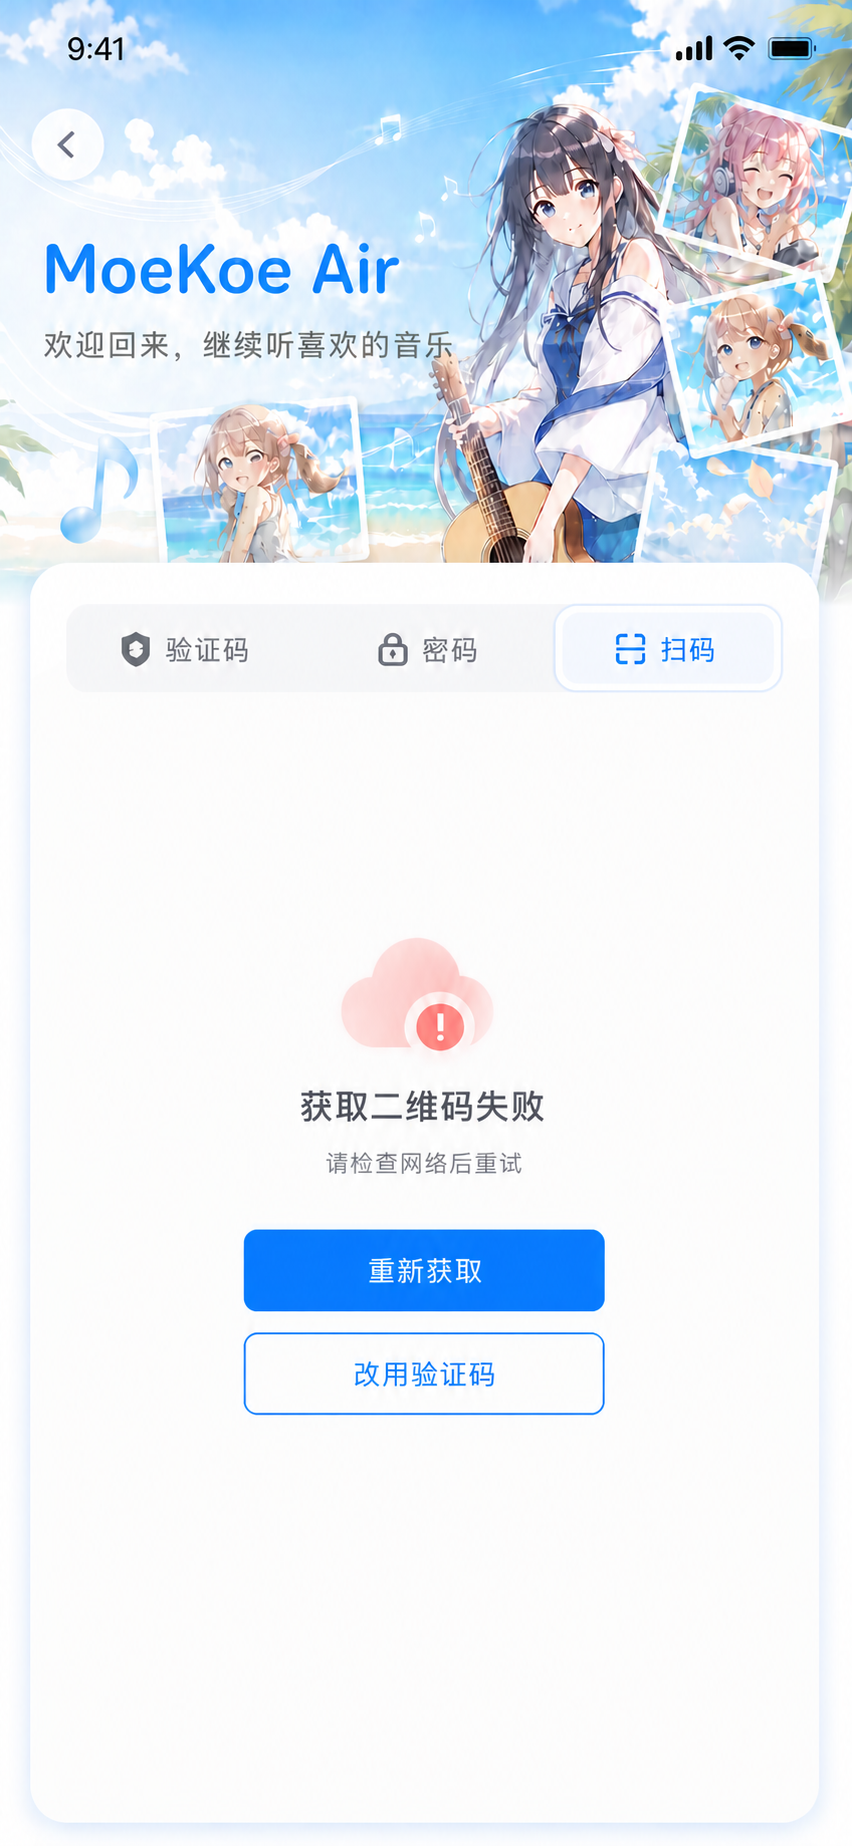
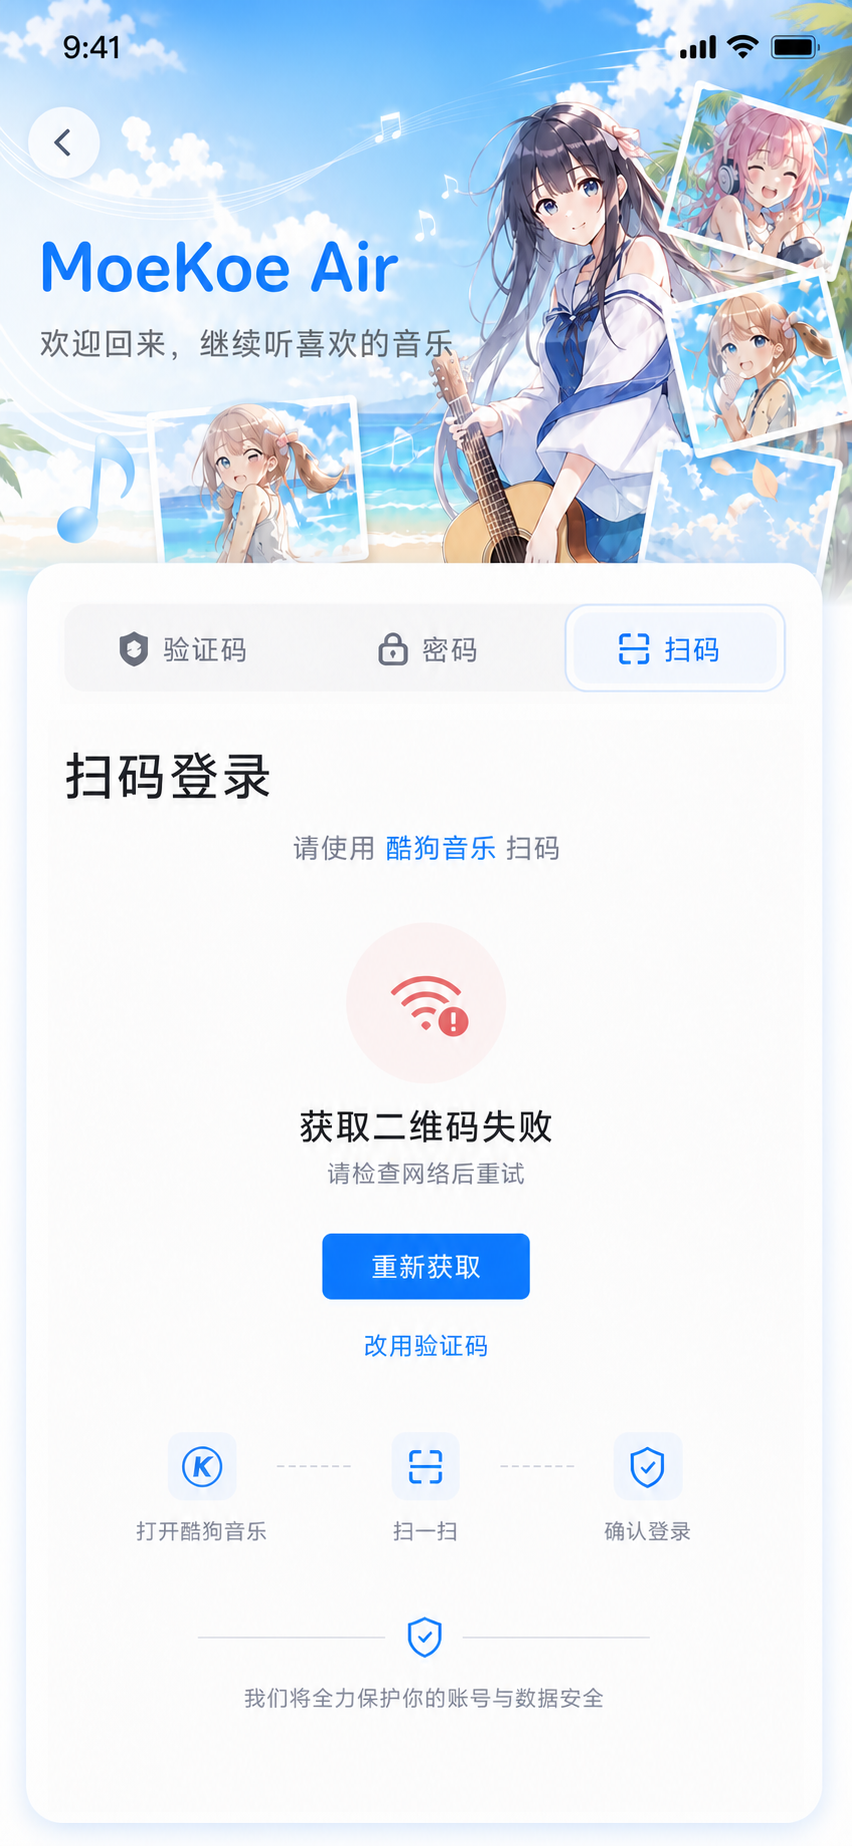
fix(design): rebuild login candidates from approved bases

diff --git a/docs/UI_COMPONENTS.md b/docs/UI_COMPONENTS.md
@@ -22,6 +22,13 @@
 
 同一时间只允许一个模态覆盖层。页面内状态、Snackbar、MiniPlayer 和底部导航可以按固定层级共存，但 Snackbar 不得覆盖 MiniPlayer。
 
+### 覆盖层设计图合成门禁
+
+- Dialog 与 Bottom Sheet 状态图必须以对应的原页面设计图为底图，按“原页面 → 统一遮罩 → 独立覆盖层”的顺序确定性合成；禁止使用生图模型重新生成或近似复刻遮罩后的页面。
+- 遮罩只能改变底图的整体明度与可交互语义。底层文字、图标、输入值、按钮标签、组件尺寸和坐标必须与原页面逐像素保持一致，不得因覆盖层出现错位、变形或文案漂移。
+- 覆盖层自身可以独立设计或生成，但必须先去除其临时背景，再作为前景层放回完整手机画布；每个状态保持一张独立原分辨率设计图，不用横向拼图承载多个状态。
+- 评审覆盖层时同时核对底图一致性、遮罩透明度、前景层位置与组件 Token；任一项不一致都不能通过设计确认门禁。
+
 ## Bottom Sheet
 
 - 手机端 Bottom Sheet 必须附着在当前视口底部，占满可用宽度，只在顶部使用 `28.dp` 圆角。
@@ -41,10 +48,10 @@
 
 ### 通用尺寸与外观
 
-- 手机端宽度为 `min(320.dp, windowWidth - 48.dp)`；大字体下允许内容增高，不固定高度。
+- 手机端普通确认型默认宽度为 `min(264.dp, windowWidth - 64.dp)`；六位验证码等结构化输入型允许使用 `min(288.dp, windowWidth - 64.dp)`。这两个规格由 390dp 登录画布校准，位于旧候选小弹窗与 `18-mobile-states-overlays.png` 大示例之间，不再把示例的约 `320.dp` 宽度机械套用到登录流程。大字体下允许内容增高，不固定高度；其他内容不能按文案长度任意放大。
 - 默认 Dialog 必须相对完整可用视口水平、垂直居中；不得以页面内容区、底部表单、键盘上方剩余区域或触发控件作为视觉居中基准。只有 Bottom Sheet 可以贴底呈现。
 - 容器使用 `surfaceContainerHigh`，圆角 `28.dp`，遮罩使用约 32% 黑色；不使用玻璃模糊和厚重阴影。
-- 外边距 `24.dp`，内容内边距 `24.dp`，标题与正文间距 `16.dp`，正文与操作区间距 `24.dp`。
+- 最小屏幕边距 `32.dp`，内容内边距 `24.dp`，标题与正文间距 `16.dp`，正文与操作区间距 `24.dp`。
 - 标题采用约 `24sp / 32sp`，正文采用 `14sp / 20sp`，按钮标签不小于 `14sp`。
 - 所有操作区域至少 `48.dp` 高。取消操作在左，主要操作在右；危险操作只将最终确认按钮设为 `error` 语义色。
 - 图标只辅助表达语义，不替代标题和正文。颜色不能成为区分成功、警告和错误的唯一方式。

diff --git a/AGENTS.md b/AGENTS.md
@@ -27,8 +27,10 @@
 - 任何新增或实质改变用户可见页面、组件、导航、覆盖层或交互状态的功能，在原型和 Compose 编码前必须具备对应设计图；只有纯后台能力和不改变布局的小型文案、机械修复可以豁免。
 - 功能规格必须先列出正常、加载、空数据、错误、离线、权限、未登录、账号受限、取消和恢复等适用状态，再逐项链接覆盖它们的设计图；只有主状态、缺少异常或恢复状态不视为设计完整。
 - 缺少设计图时，先使用 `frontend-design` 在现有 MoeKoe Air 视觉、`DESIGN_SYSTEM.md` 和已批准页面约束内补图，不得另起一套色板、字体、信息架构或组件语言。
+- 补充同一页面的新状态时，已确认主状态不是抽象风格参考，而是必须直接复用的页面基座；状态图只能替换规格明确允许变化的内容区域。状态栏、Hero、页面容器、固定导航、通用控件及其尺寸和坐标不得由生图模型重新解释。确需切换到独立 Activity 或其他页面作为基座时，必须在状态映射中明确记录例外及其权威设计图。
 - 固定顺序为“视觉约束审计 → 静态设计图生成 → 用户确认 → 必要时制作交互原型 → 文档与 Design System 同步 → Compose 实现”。设计图未生成或未确认时，不得提前制作原型；候选图、原型和自动生成图也不得自行标记为实现基线。
 - 原型只验证已确认设计的交互、滚动、转场和响应式行为，不能替代静态设计图门禁。设计图中的自动生成文案和标注不作为协议、产品文案或 Token 真值。
+- Dialog、Bottom Sheet 等覆盖层状态必须直接复用对应原页面画布，再依次叠加规范遮罩与独立前景层；不得让生图模型重绘遮罩后的原页面。除覆盖层明确造成的遮挡外，底层页面的文字、控件、输入草稿、尺寸和坐标必须保持不变。
 - 已确认设计图是页面结构、层级、密度和视觉形态的权威依据；原型只作为交互参考。原型中的字符图标、近似图标和临时装饰不得复制到 Compose，正式图标必须按设计图语义使用固定版本的 Material Icons 或已批准品牌资源。
 - 设计确认后必须更新 `docs/design/mockups/README.md`、相关阶段计划和唯一页面映射；实现中发现新状态时，先补设计并重新确认，再继续布局代码。
 

diff --git a/docs/DESIGN_SYSTEM.md b/docs/DESIGN_SYSTEM.md
@@ -173,8 +173,9 @@
 - 加载、空数据、持续错误和离线属于页面内状态。
 - 权限解释优先使用全页面状态；登录与 VIP 限制优先使用内容区内联门槛，只有必须确认时才打开 Dialog。
 - 不可在同一页面中用风险、确认或提示卡片替换用户正在操作的主表单。登录额外风险验证属于临时阻断确认：原密码表单保持可辨识但不可操作，叠加遮罩与 Dialog；Dialog 关闭后恢复原草稿和焦点语义。只有确认后的独立验证流程可以成为新页面或隔离 Activity。
+- 覆盖层状态设计图统一采用“原页面画布 → 规范遮罩 → 独立 Dialog 或 Bottom Sheet 前景层”的确定性合成方式；不得重新生成遮罩后的底层页面，底层文案、输入草稿、控件尺寸与坐标必须保持不变。
 - Bottom Sheet 必须贴住手机视口底部，占满可用宽度，仅顶部使用 `28dp` 圆角，并处理底部安全区；使用遮罩与统一轻量顶缘投影分层，默认 `24dp` 水平内边距、一个 `48dp` Filled 主操作和一个 TextButton 取消，不堆叠两个同等级全宽按钮。
-- 手机 Dialog 宽度为 `min(320.dp, windowWidth - 48.dp)`，默认相对完整可用视口水平、垂直居中；不得相对底部表单或剩余内容区居中。遮罩约为 32% 黑色，确认型操作沿用 [`11-dialog-components.png`](design/mockups/11-dialog-components.png) 的左侧文字取消与右侧主按钮结构。
+- 手机普通确认 Dialog 默认宽度为 `min(264.dp, windowWidth - 64.dp)`；六位验证码等结构化输入 Dialog 可使用 `min(288.dp, windowWidth - 64.dp)`。两者由 390dp 登录画布校准，高度均由内容决定，不通过放大字号和按钮填满容器，也不机械沿用 `18-mobile-states-overlays.png` 中偏大的示例宽度。Dialog 默认相对完整可用视口水平、垂直居中，不得相对底部表单或剩余内容区居中。遮罩约为 32% 黑色，确认型操作沿用 [`11-dialog-components.png`](design/mockups/11-dialog-components.png) 的左侧文字取消与右侧主按钮结构。
 - Snackbar 左右边距 `16dp`，最多两行和一个操作，位于 MiniPlayer 上方。
 - DropdownMenu 必须锚定触发控件；音质、排序等多项单选优先使用 Bottom Sheet。
 - 同一时间只展示一个模态覆盖层；系统返回、焦点恢复和遮罩关闭规则必须明确。

diff --git a/docs/design/mockups/candidates/login-v2/README.md b/docs/design/mockups/candidates/login-v2/README.md
@@ -4,13 +4,25 @@
 
 ## 视觉权威
 
-- 登录页面结构、Hero、密度与比例：[`13-login-phone-immersive.png`](../../13-login-phone-immersive.png)。
+- 登录页面结构、Hero、密度与比例：[`13-login-phone-immersive.png`](../../13-login-phone-immersive.png)。它是必须直接复用的像素基座，不是仅供模型自由发挥的风格参考。
 - Dialog：[`11-dialog-components.png`](../../11-dialog-components.png) 与 [`UI_COMPONENTS.md`](../../../../UI_COMPONENTS.md)。
 - 操作、输入与按钮层级：[`16-actions-inputs.png`](../../16-actions-inputs.png)。
 - 页面状态、Dialog 与 Bottom Sheet：[`18-mobile-states-overlays.png`](../../18-mobile-states-overlays.png)。
 - “我的”切换账号背景：[`04-my-v4.png`](../../04-my-v4.png)。
 
 所有候选均为独立的 `852 × 1846` 完整手机画布，不使用一张横向总览图承载多个状态。自动生成的示例账号、二维码和服务内容仅表达视觉，不是协议或正式数据。
+
+### 页面基座矩阵
+
+| 状态 | 固定基座 | 允许变化区域 |
+| --- | --- | --- |
+| `19a–c`、`20a–e` | `13-login-phone-immersive.png` 完整画布 | 登录卡片中分段控件以下的标题、字段、状态反馈和操作内容 |
+| `19d`、`21a–c`、`21e` | 对应 `19` 密码页原状态 | 统一遮罩与独立居中 Dialog；底层页面像素不得变化 |
+| `21d` | 隔离安全验证 Activity | Activity 自身加载与失败恢复区域；这是明确例外，不复用登录卡片 |
+| `22a–c` | `13-login-phone-immersive.png` 的 Hero 与页面容器 | 登录完成后的账号选择内容；容器边界和页面密度不得变化 |
+| `22d` | `04-my-v4.png` 完整画布 | 统一遮罩与符合 `18-mobile-states-overlays.png` 的独立 Bottom Sheet |
+
+重建或补图时必须先复制固定基座，再对允许变化区域做局部设计或确定性合成；禁止为每个状态重新生成整张页面。
 
 ## 19 · 密码登录
 

diff --git a/docs/UI_DESIGN_BRIEF.md b/docs/UI_DESIGN_BRIEF.md
@@ -53,6 +53,7 @@
 ## 登录视觉
 
 - 登录主状态采用 [`13-login-phone-immersive.png`](design/mockups/13-login-phone-immersive.png) 的沉浸式方向。
+- 登录补充状态必须直接以 `13-login-phone-immersive.png` 的完整画布作为像素基座，只替换登录卡片内规格允许变化的状态内容；Hero、卡片外框、分段控件及固定间距不得重新生成。隔离安全验证 Activity 和“我的”页账号切换 Bottom Sheet 分别使用各自明确记录的页面基座，不套用登录卡片。
 - 插画绘制到状态栏后方，不设置独立白色 App Bar，也不重复显示“登录”标题。
 - 返回按钮位于系统安全区内，使用标准 Material 返回图标、`48dp` 触控区域和约 `40dp` 半透明圆形 Surface。
 - 验证码、密码和扫码使用同一表单 Surface 内的分段切换，不拆成三套无关视觉语言。
